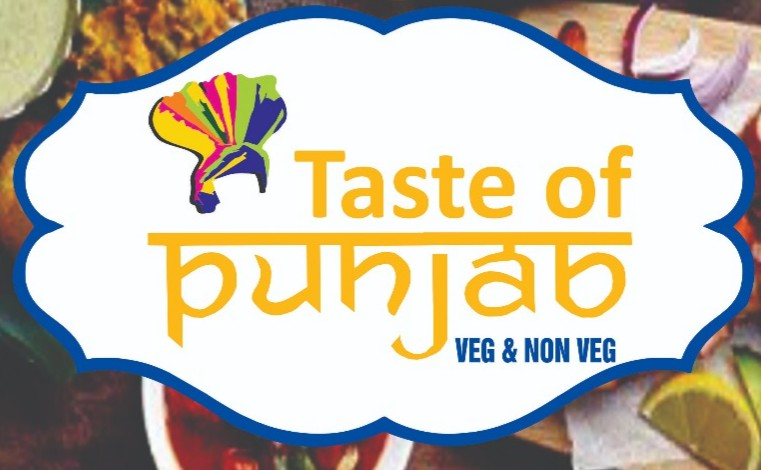
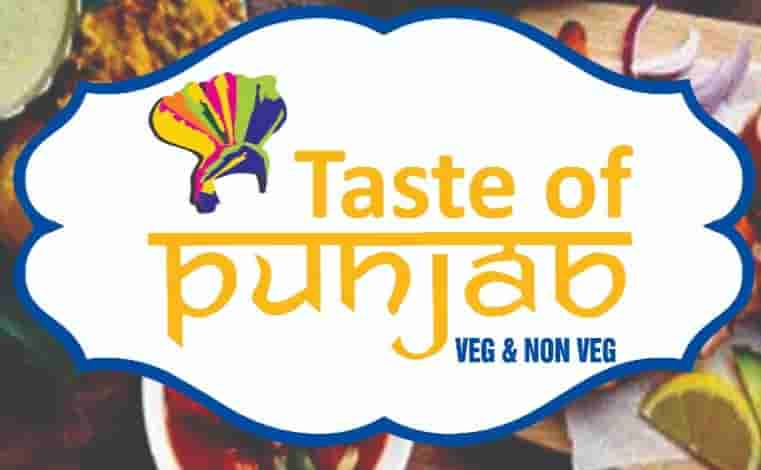
use compressed images for sposors

diff --git a/src/components/Sponsors/sponsors.js b/src/components/Sponsors/sponsors.js
@@ -17,7 +17,7 @@ const mediaPartners = ['./mediapartners/spon1.jpg',
   './mediapartners/du refresh news logo.png',
   './mediapartners/DU Updates.png',
   './mediapartners/DU Vibes.jpg',
-  './mediapartners/Ignite_Engineers_Logo.png',
+  './mediapartners/Ignite_Engineers_Logo.jpg',
   './mediapartners/Know A Fest.png',
   './mediapartners/The Campus Media.jpg',
   './mediapartners/The Education Tree.jpg',
